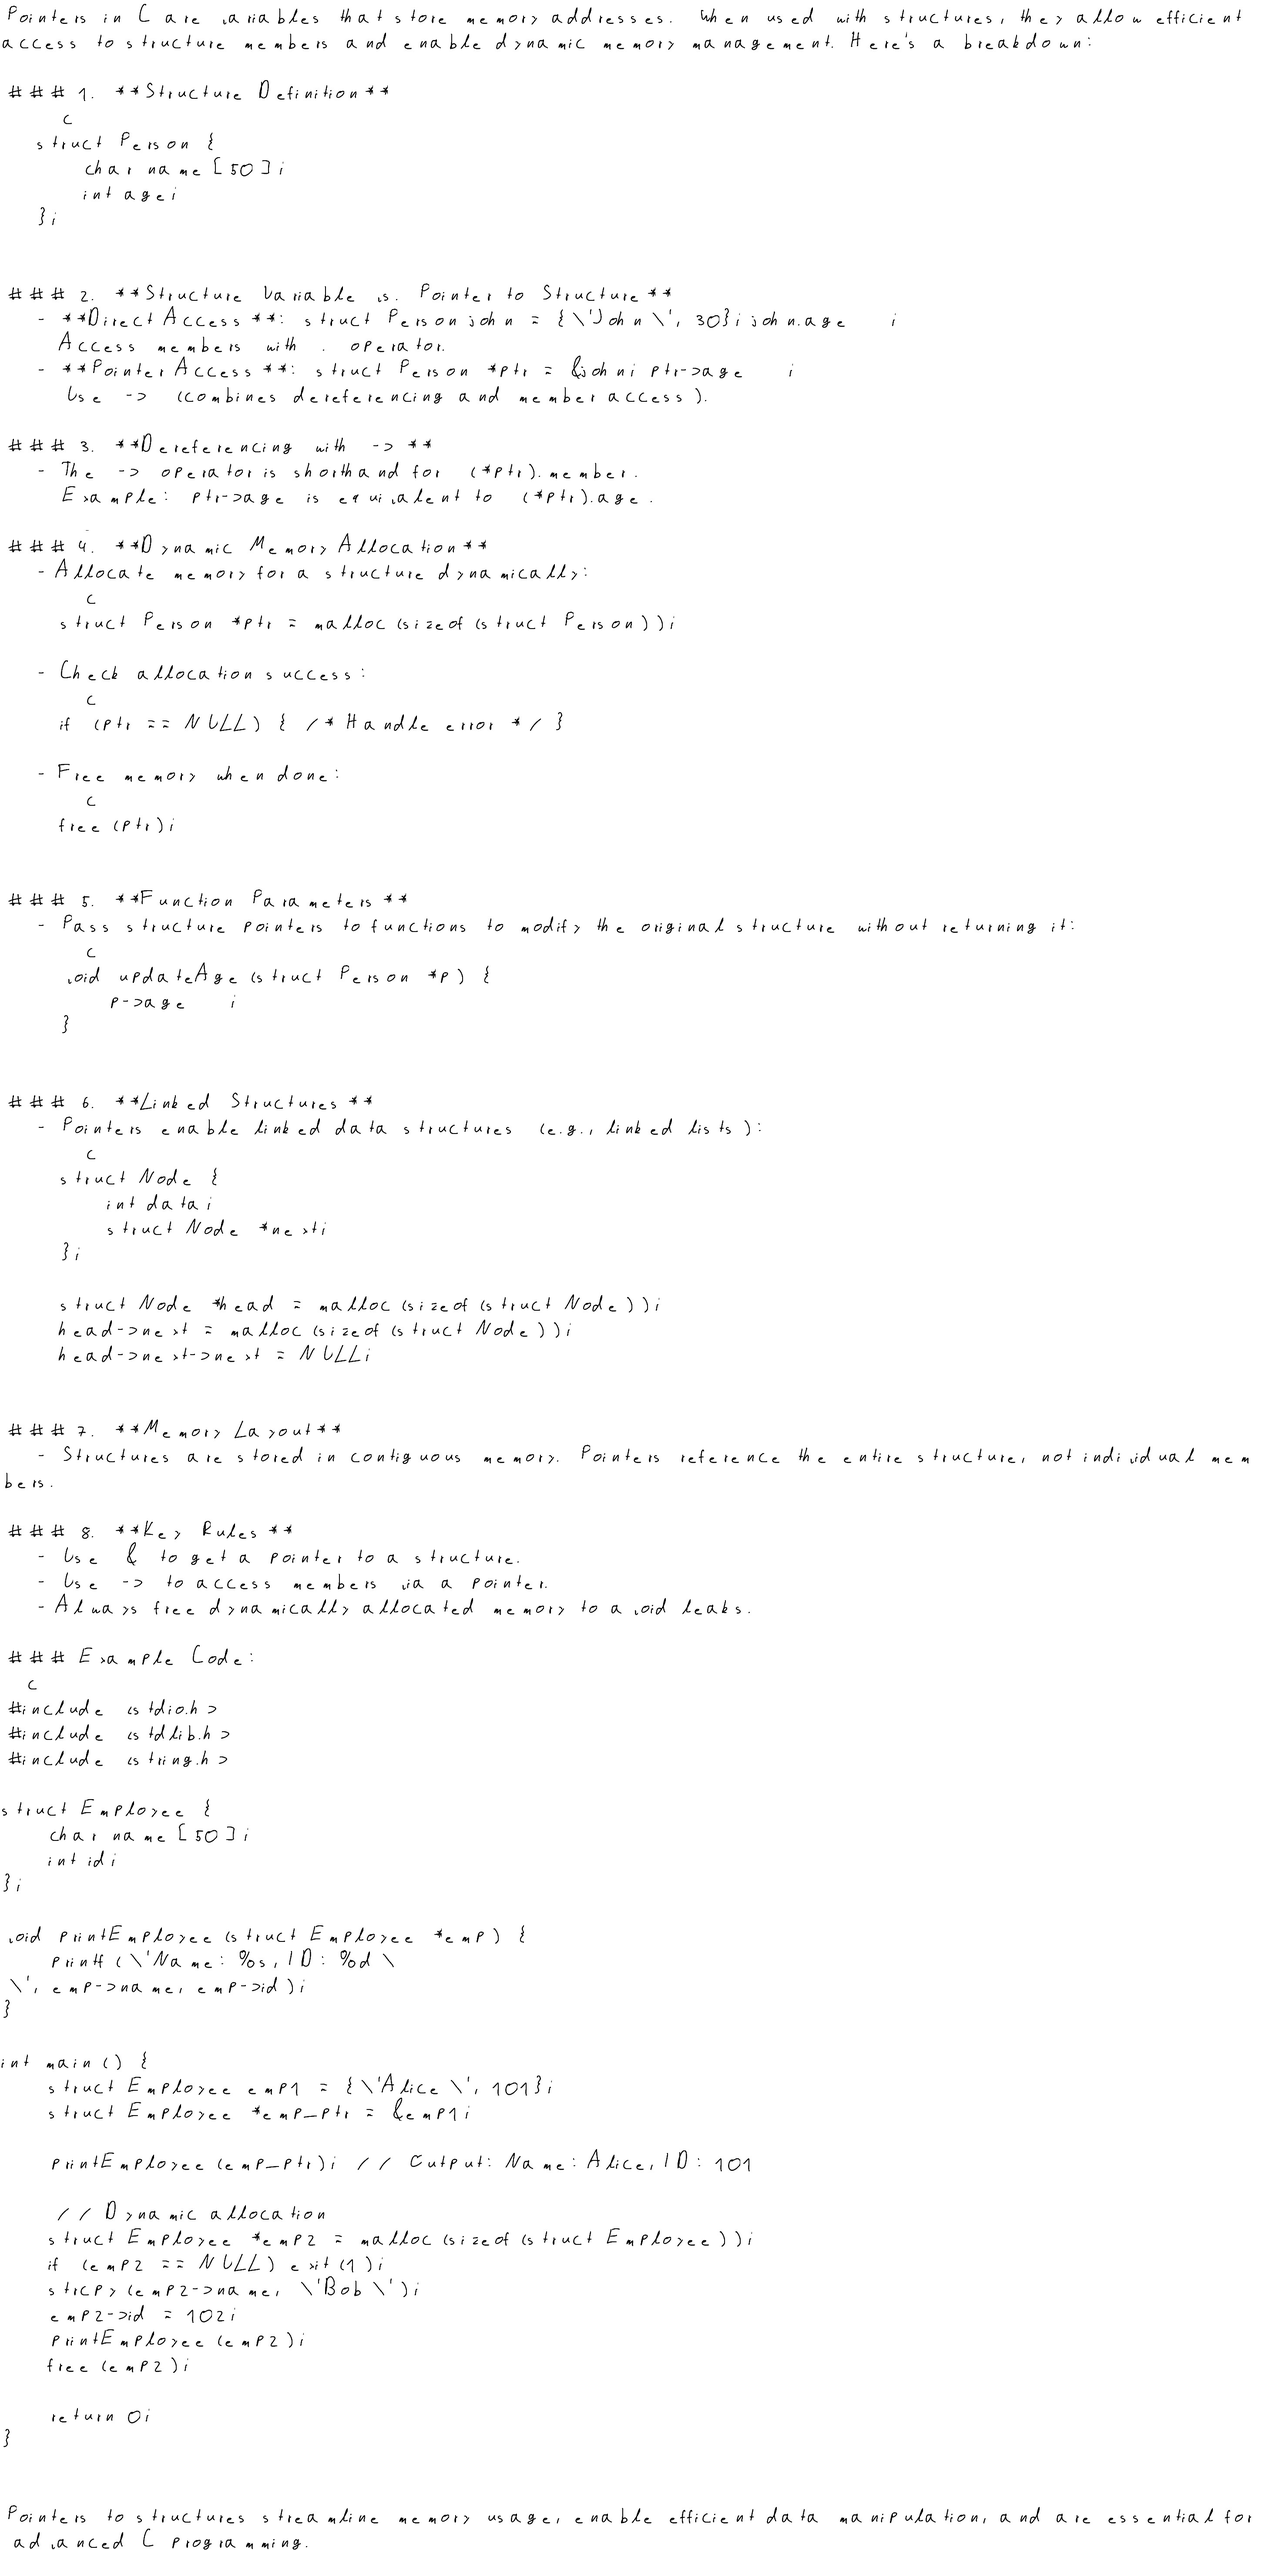
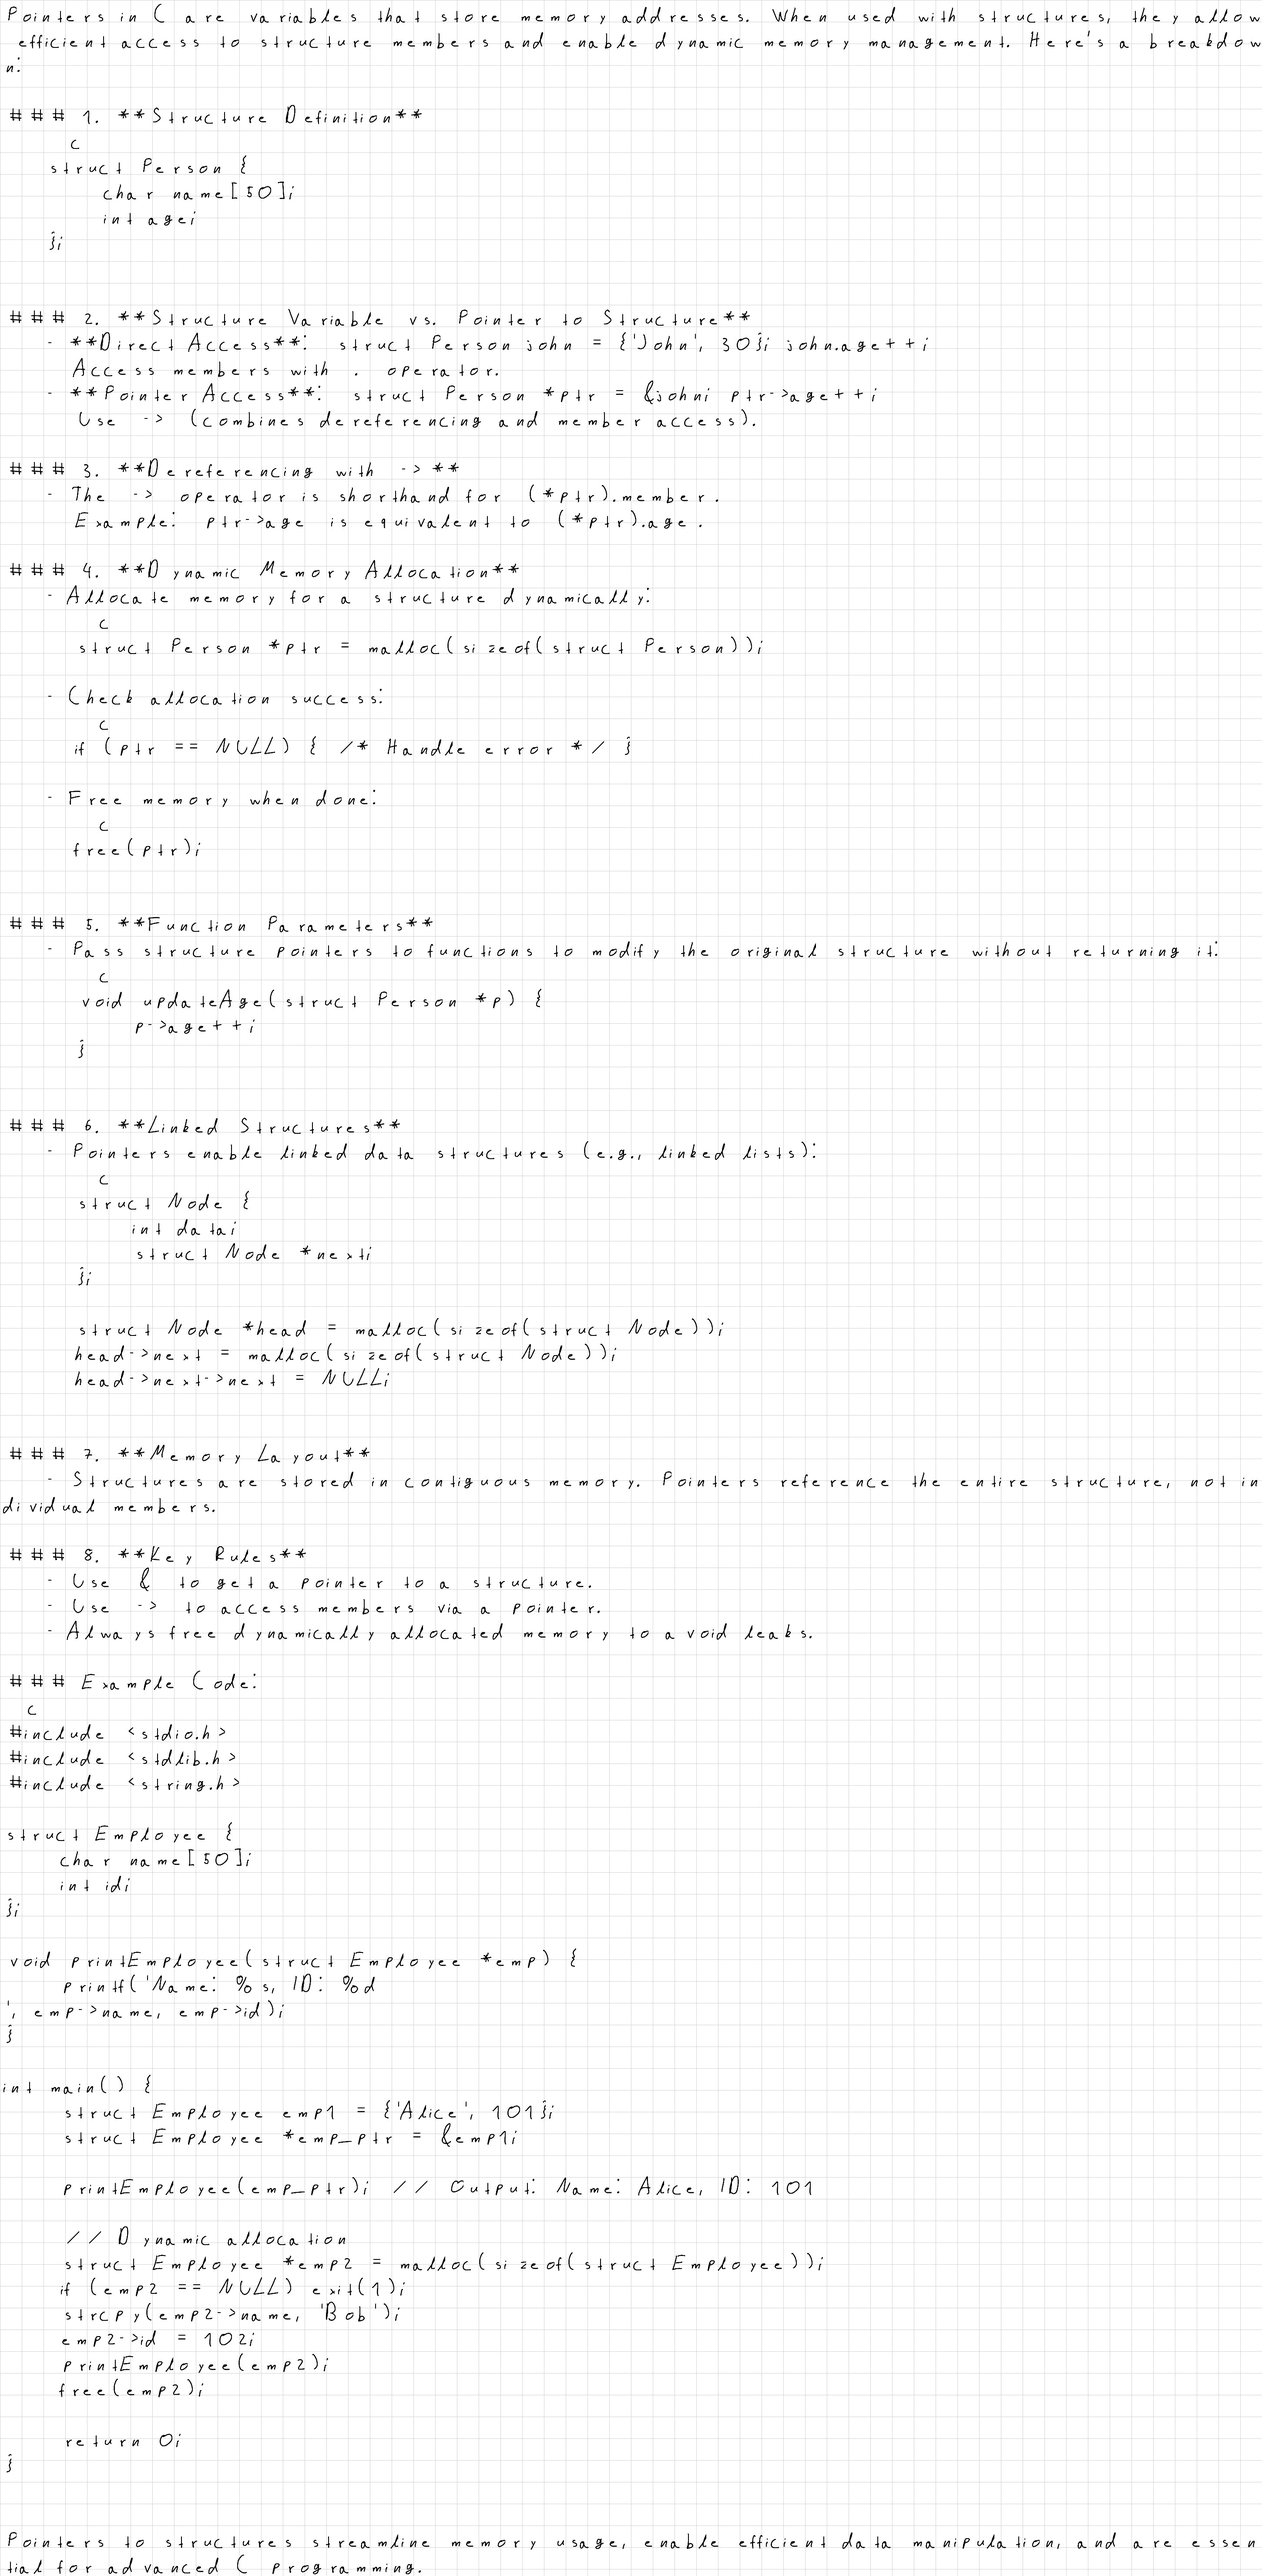
added square background

diff --git a/main.c b/main.c
@@ -14,33 +14,33 @@
 #define STB_IMAGE_WRITE_IMPLEMENTATION
 #include "stb_image_write.h"
 
-const bool generate_ai_answer = true;
+const bool generate_ai_answer = false;
 
 const int32_t arial_widths[128] = {
     ['A'] = 667, ['B'] = 667, ['C'] = 722, ['D'] = 722, ['E'] = 667,
     ['F'] = 611, ['G'] = 778, ['H'] = 722, ['I'] = 348, ['J'] = 500,
-    ['K'] = 667, ['L'] = 556, ['M'] = 833, ['N'] = 722, ['O'] = 778,
+    ['K'] = 667, ['L'] = 556, ['M'] = 833, ['N'] = 722, ['O'] = 878,
     ['P'] = 667, ['Q'] = 778, ['R'] = 722, ['S'] = 667, ['T'] = 611,
     ['U'] = 722, ['V'] = 667, ['W'] = 944, ['X'] = 667, ['Y'] = 867,
     ['Z'] = 611,
     
-    ['a'] = 656, ['b'] = 556, ['c'] = 500, ['d'] = 556, ['e'] = 556,
+    ['a'] = 556, ['b'] = 556, ['c'] = 500, ['d'] = 556, ['e'] = 556,
     ['f'] = 278, ['g'] = 556, ['h'] = 456, ['i'] = 222, ['j'] = 322,
-    ['k'] = 500, ['l'] = 422, ['m'] = 633, ['n'] = 556, ['o'] = 456,
-    ['p'] = 556, ['q'] = 556, ['r'] = 333, ['s'] = 500, ['t'] = 378,
-    ['u'] = 556, ['v'] = 500, ['w'] = 722, ['x'] = 500, ['y'] = 500,
-    ['z'] = 500,
+    ['k'] = 500, ['l'] = 422, ['m'] = 633, ['n'] = 556, ['o'] = 576,
+    ['p'] = 556, ['q'] = 556, ['r'] = 583, ['s'] = 530, ['t'] = 478,
+    ['u'] = 556, ['v'] = 700, ['w'] = 722, ['x'] = 500, ['y'] = 650,
+    ['z'] = 800,
     
-    ['0'] = 556, ['1'] = 556, ['2'] = 556, ['3'] = 556, ['4'] = 556,
+    ['0'] = 756, ['1'] = 556, ['2'] = 556, ['3'] = 556, ['4'] = 556,
     ['5'] = 556, ['6'] = 556, ['7'] = 556, ['8'] = 556, ['9'] = 556,
     
-    [' '] = 478,  
+    [' '] = 578,  
     ['!'] = 278, ['"'] = 355, ['#'] = 856, ['$'] = 556, ['%'] = 889,
-    ['&'] = 667, ['\''] = 191, ['('] = 633, [')'] = 633, ['*'] = 589,
+    ['&'] = 667, ['\''] = 191, ['('] = 633, [')'] = 633, ['*'] = 629,
     ['+'] = 784, [','] = 278, ['-'] = 333, ['.'] = 278, ['/'] = 878,
     [':'] = 378, [';'] = 378, ['<'] = 584, ['='] = 584, ['>'] = 584,
     ['?'] = 556, ['@'] = 1015,
-    ['['] = 878, ['\\'] = 878, [']'] = 878, ['^'] = 469, ['_'] = 556,
+    ['['] = 578, ['\\'] = 878, [']'] = 578, ['^'] = 469, ['_'] = 556,
     ['`'] = 333, ['{'] = 454, ['|'] = 260, ['}'] = 454, ['~'] = 584
 };
 
@@ -65,6 +65,8 @@ struct TileInfo {
     int32_t channels;
     int32_t max_pixels_horizontal;
     int32_t table_sym_horizontal;
+    int32_t grid_width;
+    int32_t grid_height;
 };
 
 static size_t write_callback(void *contents, size_t size, size_t nmemb, void *userp) {
@@ -150,9 +152,10 @@ static int32_t char_to_tile_index(char c) {
         case '$': return 79;
         case '^': return 80;
         case '_': return 81;
+        case '+': return 82;
     }
     
-    if (c >= '0' && c <= '9') return 82 + c - '0';
+    if (c >= '0' && c <= '9') return 83 + c - '0';
 
     return 52;
 }
@@ -251,6 +254,25 @@ static void skip_unicode(char* out, size_t* size, const char* input) {
     *size = out_index + 1;
 }
 
+static void draw_square_background(struct TileInfo* info) {
+    // Horizontal
+    for (int32_t y = 0; y < info->grid_height; y += 50) {
+        for (int32_t x = 0; x < info->grid_width; x++) {
+            for (int32_t c = 0; c < info->channels; c++) {
+                info->output[(y * info->max_pixels_horizontal + x) * info->channels + c] = 211;
+            }
+        }
+    }
+
+    for (int32_t y = 0; y < info->grid_height; y++) {
+        for (int32_t x = 0; x < info->grid_width; x += 50) {
+            for (int32_t c = 0; c < info->channels; c++) {
+                info->output[(y * info->max_pixels_horizontal + x) * info->channels + c] = 211;
+            }
+        }
+    }
+}
+
 static wsJson* get_ai_json() {
     CURL* curl;
     CURLcode res;
@@ -313,7 +335,7 @@ int main(void) {
         fprintf(stderr, "Response: %s\n", response);
     }
     else {
-        response = "Yooo im good how are you\n12345:!!!?<>";
+        response = "Pointers in C are variables that store memory addresses. When used with structures, they allow efficient access to structure members and enable dynamic memory management. Here's a breakdown:\n\n### 1. **Structure Definition**\n   ```c\n   struct Person {\n       char name[50];\n       int age;\n   };\n   ```\n\n### 2. **Structure Variable vs. Pointer to Structure**\n   - **Direct Access**: `struct Person john = {\"John\", 30}; john.age++;`  \n     Access members with `.` operator.\n   - **Pointer Access**: `struct Person *ptr = \u0026john; ptr-\u003eage++;`  \n     Use `-\u003e` (combines dereferencing and member access).\n\n### 3. **Dereferencing with `-\u003e`**\n   - The `-\u003e` operator is shorthand for `(*ptr).member`.  \n     Example: `ptr-\u003eage` is equivalent to `(*ptr).age`.\n\n### 4. **Dynamic Memory Allocation**\n   - Allocate memory for a structure dynamically:\n     ```c\n     struct Person *ptr = malloc(sizeof(struct Person));\n     ```\n   - Check allocation success:\n     ```c\n     if (ptr == NULL) { /* Handle error */ }\n     ```\n   - Free memory when done:\n     ```c\n     free(ptr);\n     ```\n\n### 5. **Function Parameters**\n   - Pass structure pointers to functions to modify the original structure without returning it:\n     ```c\n     void updateAge(struct Person *p) {\n         p-\u003eage++;\n     }\n     ```\n\n### 6. **Linked Structures**\n   - Pointers enable linked data structures (e.g., linked lists):\n     ```c\n     struct Node {\n         int data;\n         struct Node *next;\n     };\n\n     struct Node *head = malloc(sizeof(struct Node));\n     head-\u003enext = malloc(sizeof(struct Node));\n     head-\u003enext-\u003enext = NULL;\n     ```\n\n### 7. **Memory Layout**\n   - Structures are stored in contiguous memory. Pointers reference the entire structure, not individual members.\n\n### 8. **Key Rules**\n   - Use `\u0026` to get a pointer to a structure.\n   - Use `-\u003e` to access members via a pointer.\n   - Always free dynamically allocated memory to avoid leaks.\n\n### Example Code:\n```c\n#include \u003cstdio.h\u003e\n#include \u003cstdlib.h\u003e\n#include \u003cstring.h\u003e\n\nstruct Employee {\n    char name[50];\n    int id;\n};\n\nvoid printEmployee(struct Employee *emp) {\n    printf(\"Name: %s, ID: %d\\n\", emp-\u003ename, emp-\u003eid);\n}\n\nint main() {\n    struct Employee emp1 = {\"Alice\", 101};\n    struct Employee *emp_ptr = \u0026emp1;\n\n    printEmployee(emp_ptr); // Output: Name: Alice, ID: 101\n\n    // Dynamic allocation\n    struct Employee *emp2 = malloc(sizeof(struct Employee));\n    if (emp2 == NULL) exit(1);\n    strcpy(emp2-\u003ename, \"Bob\");\n    emp2-\u003eid = 102;\n    printEmployee(emp2);\n    free(emp2);\n\n    return 0;\n}\n```\n\nPointers to structures streamline memory usage, enable efficient data manipulation, and are essential for advanced C programming.";
     }
 
     size_t len = strlen(response);
@@ -338,16 +360,17 @@ int main(void) {
     fprintf(stderr, "%s\n", asci_string);
     fprintf(stderr, "str len %zu\n", asci_string_len);
 
-    const int32_t offset_x = 57;
-    const int32_t offset_y = 57;
+    const int32_t offset_x = 58;
+    const int32_t offset_y = 58;
     const int32_t char_size = 58;
     const int32_t char_size_squared = char_size * char_size;
     const int32_t img_size = char_size_squared * channels;
     const int32_t tiles = asci_string_len - 1;
     const int32_t pixels_horizontal = 50 * char_size;
 
+    int32_t rows = count_rows(asci_string, asci_string_len, char_size, pixels_horizontal);
     int32_t grid_width = pixels_horizontal;
-    int32_t grid_height = char_size * count_rows(asci_string, asci_string_len, char_size, pixels_horizontal);
+    int32_t grid_height = char_size * rows;
     size_t total_bytes = (size_t)grid_width * (size_t)grid_height * (size_t)channels;
     uint8_t* crop_img = malloc(total_bytes);
     memset(crop_img, 255, grid_width * grid_height * channels);
@@ -365,8 +388,11 @@ int main(void) {
         .channels = channels,
         .max_pixels_horizontal = pixels_horizontal,
         .table_sym_horizontal = 26,
+        .grid_width = grid_width,
+        .grid_height = grid_height,
     };
 
+    draw_square_background(&info);
     for (int32_t i = 0; i < tiles; i++) {
         if (asci_string[i] == '\n' || (asci_string[i] == '\\' && asci_string[i + 1] == 'n')) {
             if (asci_string[i] == '\\') i++;
